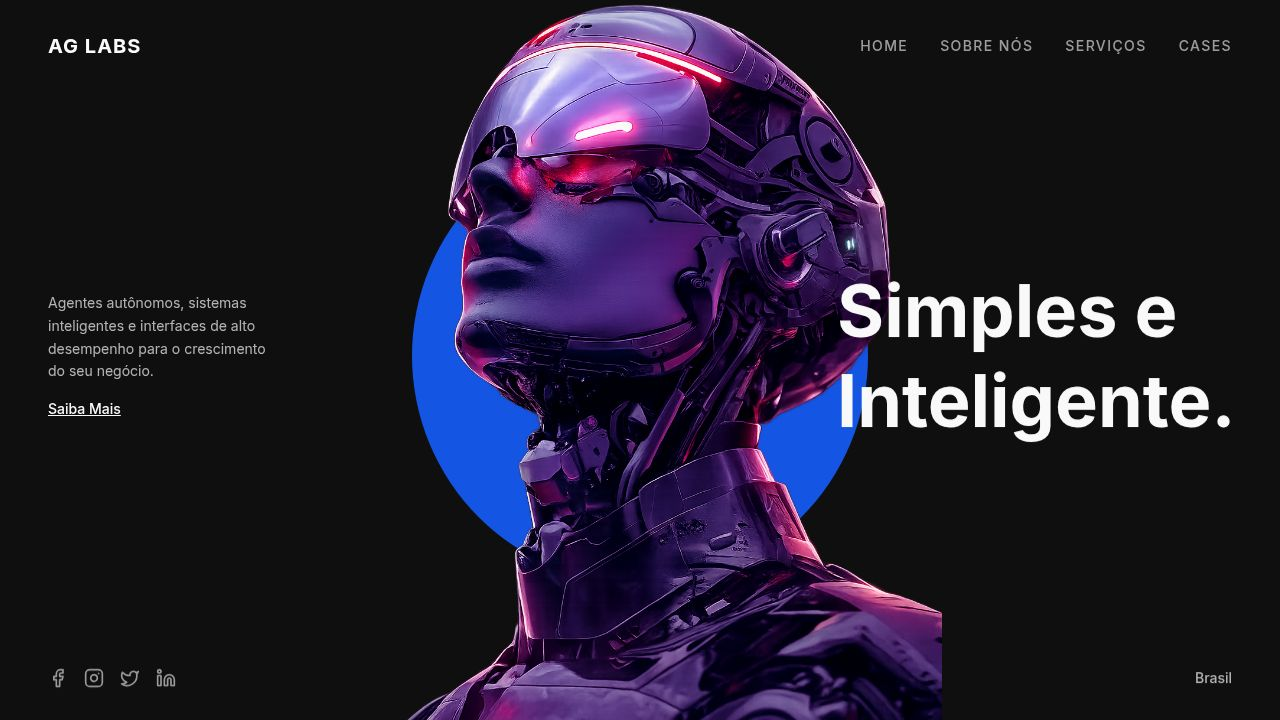
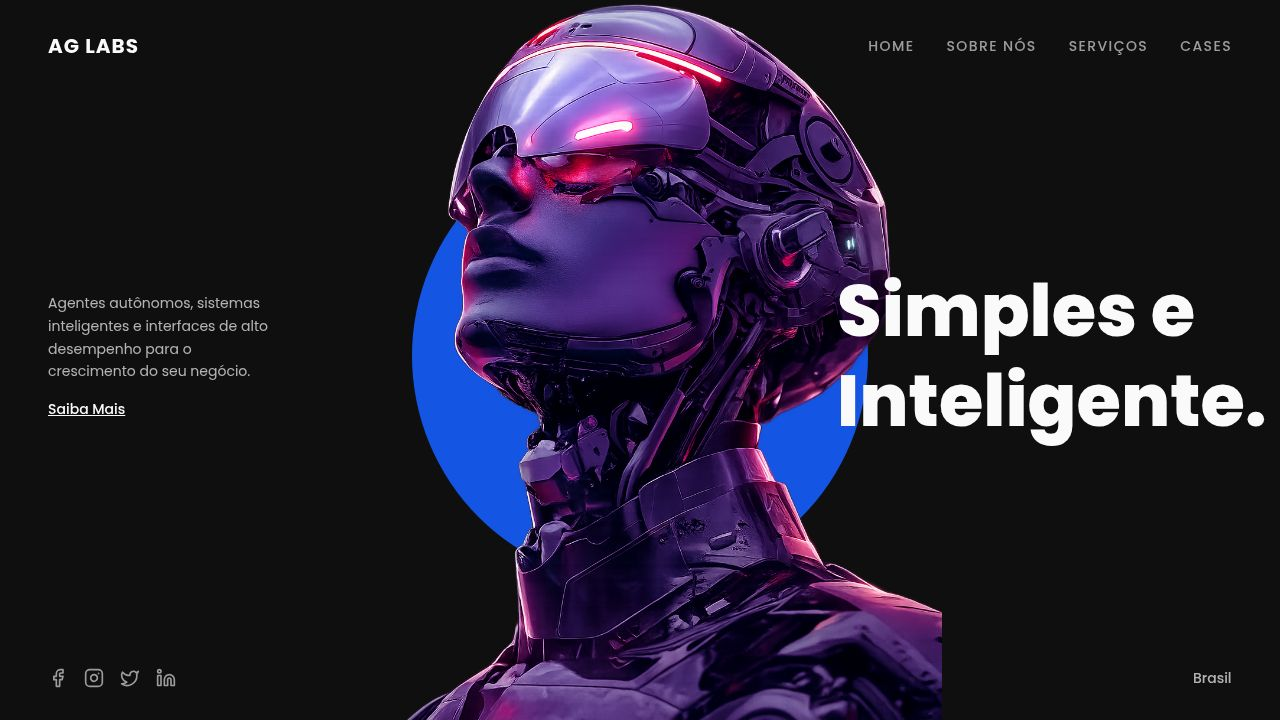
Update button component for more engaging user interaction
Introduce a new `HoverButton` component with particle effects and replace the existing `ButtonCta` in `cta-4.tsx`.

Replit-Commit-Author: Agent
Replit-Commit-Session-Id: 600bfbde-320e-4e43-9b92-2f10f9d4f885
Replit-Commit-Checkpoint-Type: full_checkpoint
Replit-Commit-Event-Id: f41d3505-2732-4600-bdd3-19e9866aa923
Replit-Commit-Screenshot-Url: https://storage.googleapis.com/screenshot-production-us-central1/fd707955-9f90-44fd-991f-23b345fb1d20/600bfbde-320e-4e43-9b92-2f10f9d4f885/kTYsX3i
Replit-Helium-Checkpoint-Created: true

diff --git a/artifacts/ai-agency/src/components/ui/hover-button.tsx b/artifacts/ai-agency/src/components/ui/hover-button.tsx
@@ -1,0 +1,125 @@
+"use client"
+
+import * as React from "react"
+import { cn } from "@/lib/utils"
+
+interface HoverButtonProps extends React.ButtonHTMLAttributes<HTMLButtonElement> {
+  children: React.ReactNode
+}
+
+const HoverButton = React.forwardRef<HTMLButtonElement, HoverButtonProps>(
+  ({ className, children, ...props }, ref) => {
+    const buttonRef = React.useRef<HTMLButtonElement>(null)
+    const [isListening, setIsListening] = React.useState(false)
+    const [circles, setCircles] = React.useState<Array<{
+      id: number
+      x: number
+      y: number
+      color: string
+      fadeState: "in" | "out" | null
+    }>>([])
+    const lastAddedRef = React.useRef(0)
+
+    const createCircle = React.useCallback((x: number, y: number) => {
+      const buttonWidth = buttonRef.current?.offsetWidth || 0
+      const xPos = x / buttonWidth
+      const color = `linear-gradient(to right, var(--circle-start) ${xPos * 100}%, var(--circle-end) ${xPos * 100}%)`
+
+      setCircles((prev) => [
+        ...prev,
+        { id: Date.now(), x, y, color, fadeState: null },
+      ])
+    }, [])
+
+    const handlePointerMove = React.useCallback(
+      (event: React.PointerEvent<HTMLButtonElement>) => {
+        if (!isListening) return
+        const currentTime = Date.now()
+        if (currentTime - lastAddedRef.current > 100) {
+          lastAddedRef.current = currentTime
+          const rect = event.currentTarget.getBoundingClientRect()
+          const x = event.clientX - rect.left
+          const y = event.clientY - rect.top
+          createCircle(x, y)
+        }
+      },
+      [isListening, createCircle]
+    )
+
+    const handlePointerEnter = React.useCallback(() => {
+      setIsListening(true)
+    }, [])
+
+    const handlePointerLeave = React.useCallback(() => {
+      setIsListening(false)
+    }, [])
+
+    React.useEffect(() => {
+      circles.forEach((circle) => {
+        if (!circle.fadeState) {
+          setTimeout(() => {
+            setCircles((prev) =>
+              prev.map((c) => c.id === circle.id ? { ...c, fadeState: "in" } : c)
+            )
+          }, 0)
+
+          setTimeout(() => {
+            setCircles((prev) =>
+              prev.map((c) => c.id === circle.id ? { ...c, fadeState: "out" } : c)
+            )
+          }, 1000)
+
+          setTimeout(() => {
+            setCircles((prev) => prev.filter((c) => c.id !== circle.id))
+          }, 2200)
+        }
+      })
+    }, [circles])
+
+    return (
+      <button
+        ref={buttonRef}
+        className={cn(
+          "relative isolate px-8 py-3 rounded-3xl",
+          "text-foreground font-medium text-base leading-6",
+          "backdrop-blur-lg bg-[rgba(43,55,80,0.1)]",
+          "cursor-pointer overflow-hidden",
+          "before:content-[''] before:absolute before:inset-0",
+          "before:rounded-[inherit] before:pointer-events-none",
+          "before:z-[1]",
+          "before:shadow-[inset_0_0_0_1px_rgba(170,202,255,0.2),inset_0_0_16px_0_rgba(170,202,255,0.1),inset_0_-3px_12px_0_rgba(170,202,255,0.15),0_1px_3px_0_rgba(0,0,0,0.50),0_4px_12px_0_rgba(0,0,0,0.45)]",
+          "before:mix-blend-multiply before:transition-transform before:duration-300",
+          "active:before:scale-[0.975]",
+          className
+        )}
+        onPointerMove={handlePointerMove}
+        onPointerEnter={handlePointerEnter}
+        onPointerLeave={handlePointerLeave}
+        {...props}
+        style={{
+          "--circle-start": "var(--tw-gradient-from, #a0d9f8)",
+          "--circle-end": "var(--tw-gradient-to, #3a5bbf)",
+        } as React.CSSProperties}
+      >
+        {circles.map(({ id, x, y, color, fadeState }) => (
+          <div
+            key={id}
+            className={cn(
+              "absolute w-3 h-3 -translate-x-1/2 -translate-y-1/2 rounded-full",
+              "blur-lg pointer-events-none z-[-1] transition-opacity duration-300",
+              fadeState === "in" && "opacity-75",
+              fadeState === "out" && "opacity-0 duration-[1.2s]",
+              !fadeState && "opacity-0"
+            )}
+            style={{ left: x, top: y, background: color }}
+          />
+        ))}
+        {children}
+      </button>
+    )
+  }
+)
+
+HoverButton.displayName = "HoverButton"
+
+export { HoverButton }

diff --git a/artifacts/ai-agency/src/components/ui/cta-4.tsx b/artifacts/ai-agency/src/components/ui/cta-4.tsx
@@ -1,5 +1,5 @@
 import { Check } from "lucide-react";
-import { ButtonCta } from "@/components/ui/button-shiny";
+import { HoverButton } from "@/components/ui/hover-button";
 
 interface Cta4Props {
   title?: string;
@@ -35,12 +35,9 @@ export const Cta4 = ({
                   href={buttonUrl}
                   target="_blank"
                   rel="noopener noreferrer"
-                  className="inline-block"
+                  className="inline-block mt-2"
                 >
-                  <ButtonCta
-                    label={buttonText}
-                    className="w-fit text-sm h-11 px-6"
-                  />
+                  <HoverButton>{buttonText}</HoverButton>
                 </a>
               </div>
               <div className="md:w-5/12">